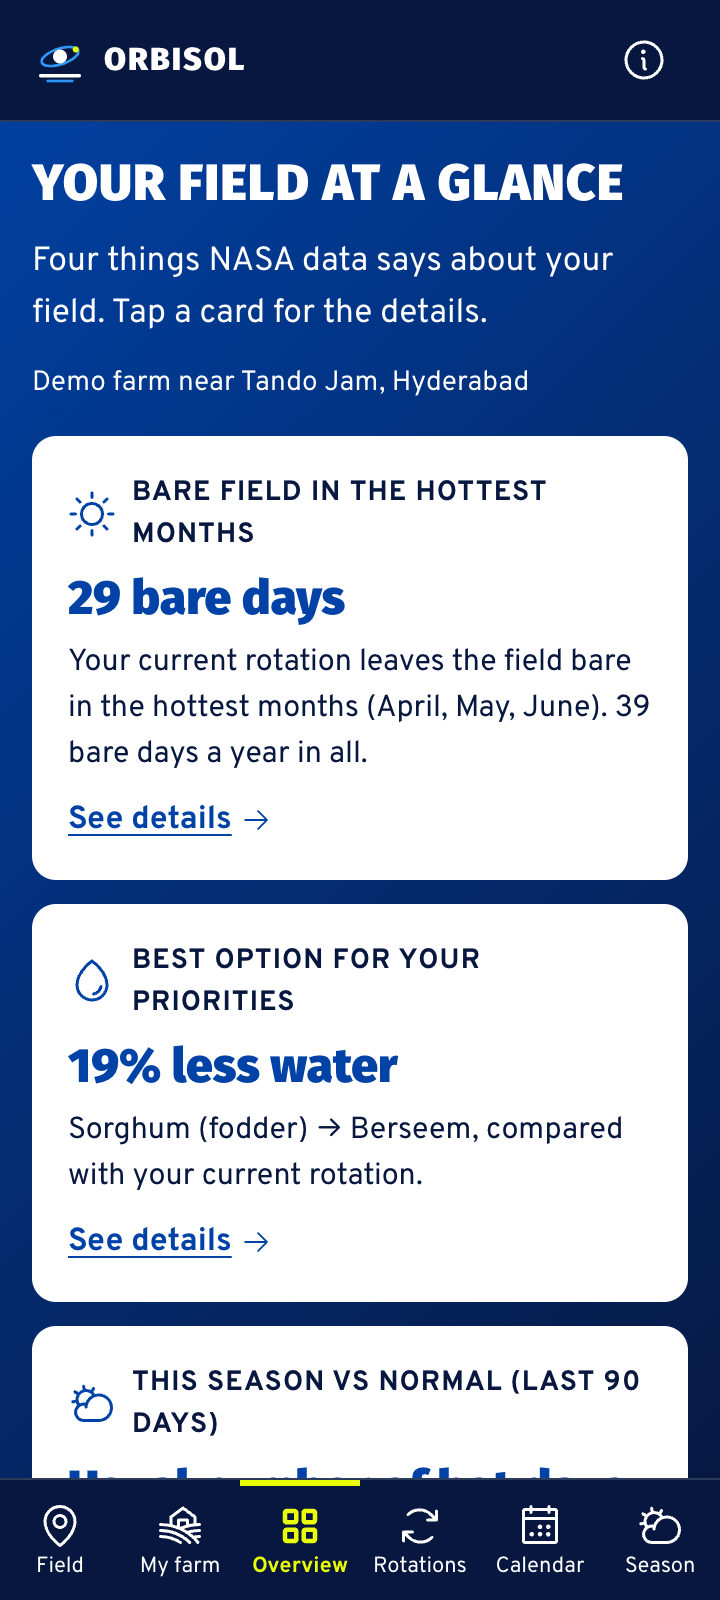
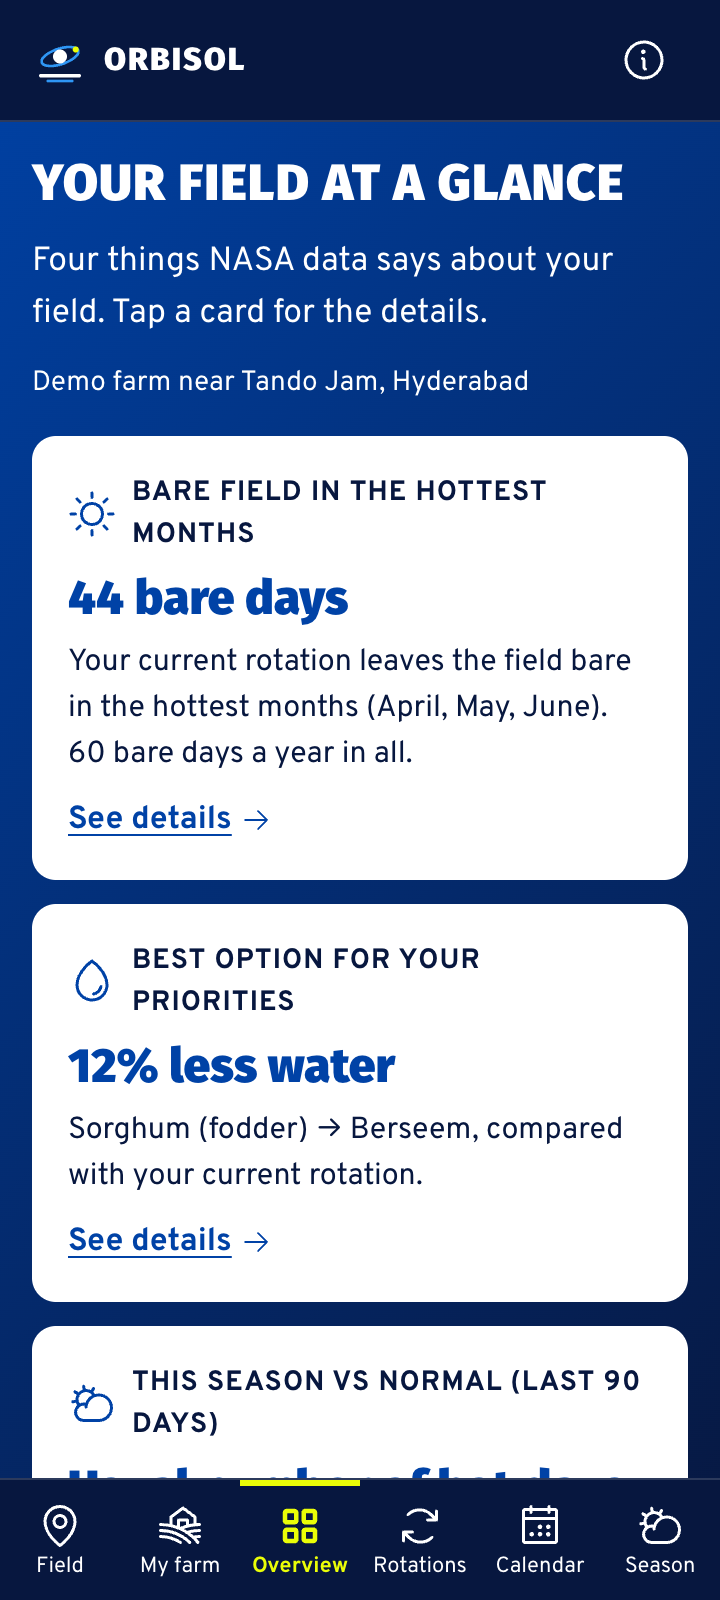
docs: full-length 2x captures of Overview, Rotations and Calendar (phone + desktop); screenshots retaken with the aligned demo farm; build log

diff --git a/docs/build-log.md b/docs/build-log.md
@@ -127,3 +127,15 @@
   frost risk; native Popover API); "Next step" button in story order; one-tap Sindh rotation presets in My farm.
 - No new dependencies. Screenshots: docs/screenshots/ (7 screens x 360x800 @2x and 1440x900). Checked: no horizontal
   overflow at 360, 1024 or 1440; 72 core tests pass; typecheck and production build pass.
+
+## 2026-11-15 PKT - Polish follow-ups
+
+- Demo farm = cotton -> wheat preset (one `COTTON_WHEAT` definition), inside the cited Sindh windows: cotton mid-May to
+  late Oct, wheat early Nov to late Mar (was mid-April, outside the March harvest window). A device that saved the old
+  demo rotation is moved to the new one on load. Fresh start, old saved demo and tapping the preset all give the same
+  Overview: 44 bare days in the hottest months, best option 12% less water.
+- Bottom nav at 360 px: 6 items of 60 x 60 px (>= 44 px), every label on one line (widest, bold "Rotations", 49 of
+  58 px); also fits at 320 px (53 px items). No change needed.
+- Full-length captures (whole page, 2x, viewport grown to page height so the header and nav sit in place) of Overview,
+  Rotations and Calendar at 360 and 1440 wide: docs/screenshots/*-full@2x.png. Viewport screenshots retaken with the
+  new demo numbers.
